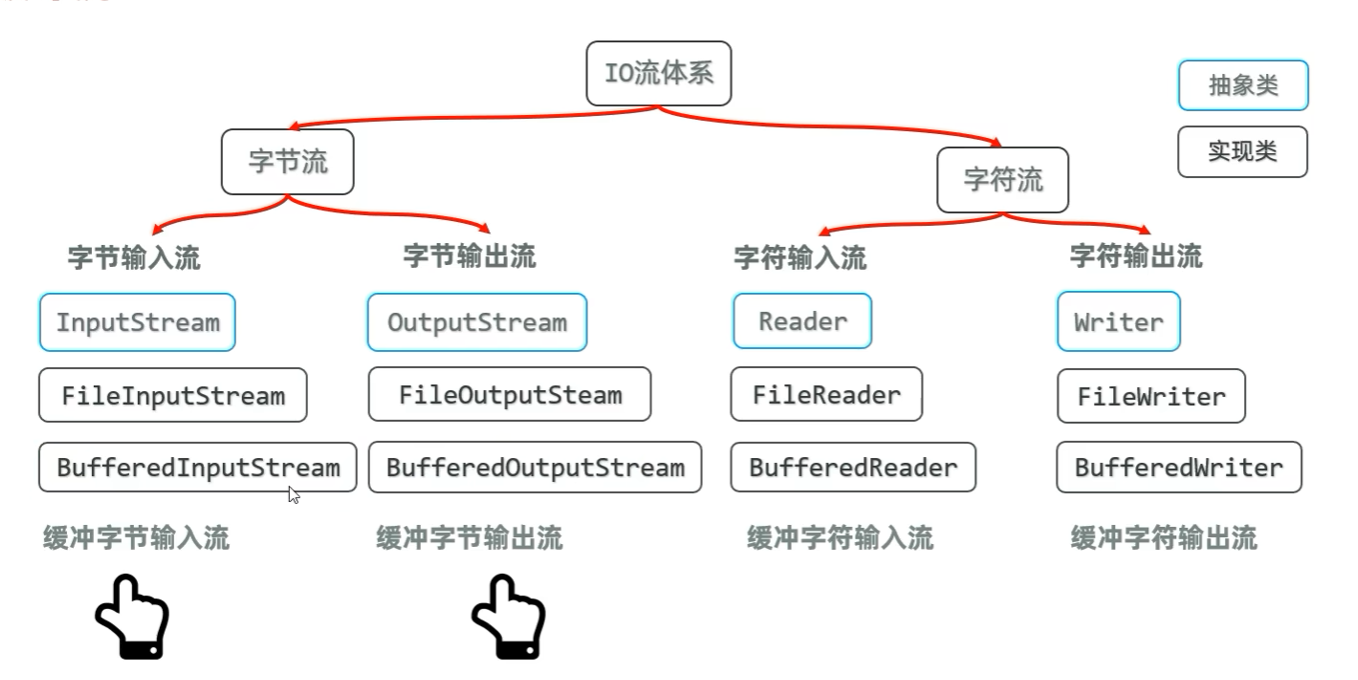
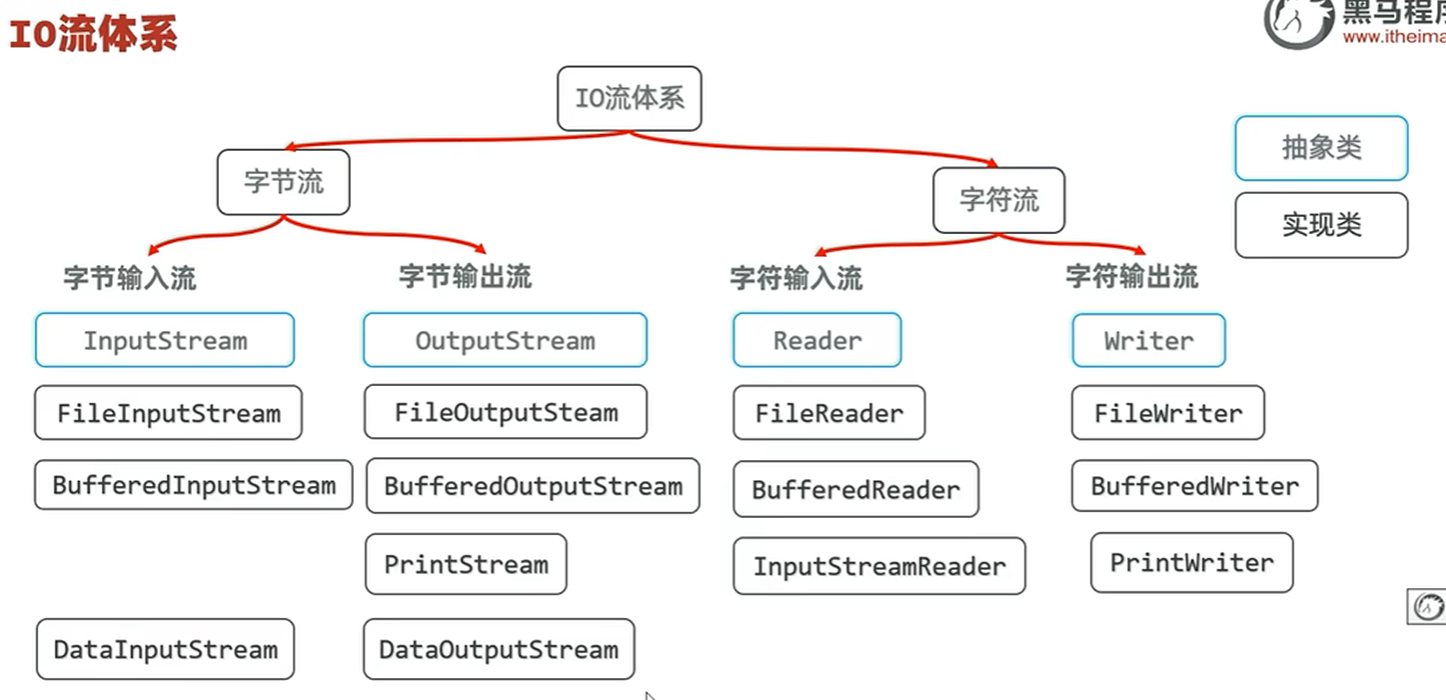
d

diff --git a/扩展/java基础.md b/扩展/java基础.md
@@ -1202,30 +1202,53 @@ Swing：不依赖操作系统（推荐）
 
 #### 缓冲流 -- 提高字节输入流读取数据的性能
 
-缓冲字节流：BufferedInputStream 、 BufferedOutputStream
+- 缓冲字节流：BufferedInputStream 、 BufferedOutputStream
 
-原理：缓冲字节输入流自带 8KB 缓冲池；缓冲字节输入流也自带 8KB 缓冲池
+  原理：缓冲字节输入流自带 8KB 缓冲池；缓冲字节输入流也自带 8KB 缓冲池
 
-- 读取：
+  - 读取：
 
-  1. 在磁盘（D 盘）中，数据装到缓冲池；
-  2. 缓冲池运到内存
-  3. 在内存中，字节数组从缓存池拿数据（快）
+    1.  在磁盘（D 盘）中，数据装到缓冲池；
+    2.  缓冲池运到内存
+    3.  在内存中，字节数组从缓存池拿数据（快）
 
-- 写入：
+  - 写入：
 
-  1. 在内存中，字节数组写入缓存池；
-  2. 缓存池运到磁盘
-  3. 在磁盘中，从缓冲池拿数据，写入磁盘；
+    1.  在内存中，字节数组写入缓存池；
+    2.  缓存池运到磁盘
+    3.  在磁盘中，从缓冲池拿数据，写入磁盘；
 
-缓冲字符流：BufferedReader、BufferedWriter
+- 缓冲字符流：BufferedReader、BufferedWriter
 
-**注：** 同 缓冲字节流一样
+  **注：** 同 缓冲字节流一样
 
-多了按行读取
+  多了按行读取，换行写入
 
 #### 性能分析
 
+- 加大低级管道的大小，速度提升；过分大，反而提升有限；
+- 建议使用字节缓冲输入流、字节缓冲输出流，结合字节数组的方式；
+
 #### 其他流
+
+- 字符输入转换流：InputStreamReader、OutputStreamWriter
+
+  解决不同编码时，字符流读取文本内容乱码的问题
+
+  思路：先获取文件的“原始字节流”，再将其按“真实的字符集编码”转成“字符输入流”，这样字符输入流中的字符就不乱码了，
+
+  ```java
+    InputStream is = new FileInputStream("d:/a.txt");
+    InputStreamReader isr = new InputStreamReader(InputStream, "GBK");
+    BufferedReader br = new BufferedReader(isr);
+  ```
+
+- 打印流：PrintStream 、PrintWriter
+
+  作用:打印流可以实现更方便、更高效的打印数据出去，能实现打印啥出去就是啥出去。
+
+- 数据输出流：DataInputStream 、DataOutputStream
+
+  作用：允许把数据和其他类型一并写出去
 
 #### IO 框架
